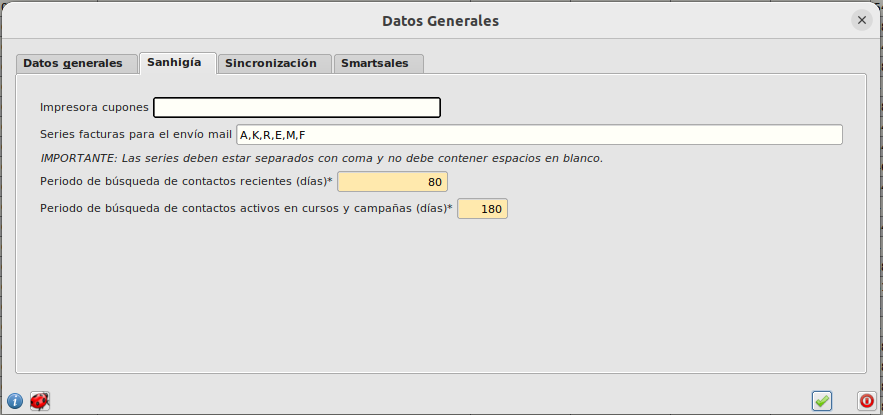
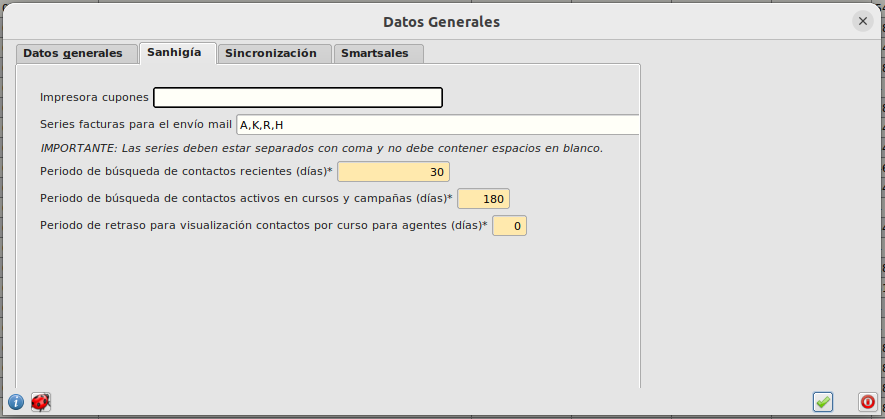
refact(SAN): Actualizado manual eventos.

Changed region(s): [[0.0, 0.0, 1.0, 1.0]]

diff --git a/proyectos/san/area_facturacion/app_web/smart_sales/dashboard/agenda.md b/proyectos/san/area_facturacion/app_web/smart_sales/dashboard/agenda.md
@@ -22,7 +22,11 @@ Si el contacto ha asistido a algún evento se indicará en una lista, al clicar 
 
 #### ¿Qué es un contacto de curso?
 
- Son aquellos contactos que están asociados a nuestro usuario por código postal o contactos que no tienen asignado ningún código postal y que han tenido una interacción o asistencia a un curso o evento en los últimos _N_ días, siendo _N_ un valor parametrizable en el ERP.  [Parametrizar días](./periodobusqueda.md).
+ Son aquellos contactos que están asociados a nuestro usuario por código postal o contactos que no tienen asignado ningún código postal y que han tenido una interacción o asistencia a un curso o evento en los últimos _N_ días, siendo _N_ un valor parametrizable en el ERP. 
+ 
+ También podemos parametrizar unos días de restraso a la hora de mostrar los contactos a los agentes en el mismo formulario del ERP.
+ 
+ [Ir a parametrizar días](./periodobusqueda.md)
 
 La caja *contactos de cursos* será visible siempre que tengamos al menos un contacto de este tipo.
 
@@ -36,7 +40,11 @@ Si clicamos en la caja veremos la pantalla de *Contactos cursos* que contiene el
 
 #### ¿Qué es un contacto activo?
 
- Son aquellos contactos que están asociados a nuestro usuario por código postal o contactos que no tienen asignado ningún código postal y que han tenido una interacción o asistencia con un curso/evento o una campaña en los últimos _N_ días, siendo _N_ un valor parametrizable en el ERP.  [Parametrizar días](./periodobusqueda.md).
+Son aquellos contactos que están asociados a nuestro usuario por código postal o contactos que no tienen asignado ningún código postal y que han tenido una interacción o asistencia con un curso/evento o una campaña en los últimos _N_ días, siendo _N_ un valor parametrizable en el ERP.
+
+También podemos parametrizar unos días de restraso a la hora de mostrar los contactos a los agentes en el mismo formulario del ERP.
+ 
+ [Ir a parametrizar días](./periodobusqueda.md)
 
 La caja *contactos más activos en últimos meses* será visible siempre que tengamos al menos un contacto de este tipo.
 

diff --git a/proyectos/san/area_facturacion/app_web/smart_sales/dashboard/periodobusqueda.md b/proyectos/san/area_facturacion/app_web/smart_sales/dashboard/periodobusqueda.md
@@ -1,10 +1,10 @@
-# Configurar periodo de búsqueda
+# Configurar parámetros de búsqueda
 
-Por defecto, los periodo establecido de búsqueda de contactos para generar la notificación de **contactos de cursos o más activos** en SmartSales está establecido en 30 días y 180 respectivamente.
+Por defecto, los periodo establecido de búsqueda de contactos para generar la notificación de **contactos de cursos o más activos** en SmartSales está establecido en 30 días para contactos de cursos, en 180 para contactos más activos y en 0 para el retraso de días para mostrarlo a los agentes. 
 
 Para contactos de cursos solo se buscará aquellos contactos que hayan asistido a un evento cuya fecha de inicio este establecida en los últimos 30 días y para contactos más activos se buscará aquellos contactos que hayan asistido a un evento o forme parte de una campaña cuya fecha de inicio este establecida en los últimos 180 días .
 
-## ¿Cómo modifico el periodo de búsqueda?
+## ¿Cómo modifico el periodo de búsqueda y/o el retraso?
 
 * Abrimos el formulario **Area de Facturación/Facturación/Configuración** y seleccionamos la pestaña **Sanhigía**. Introducimos el número de días que queremos establecer y pulsamos el botón de confirmación.
 
